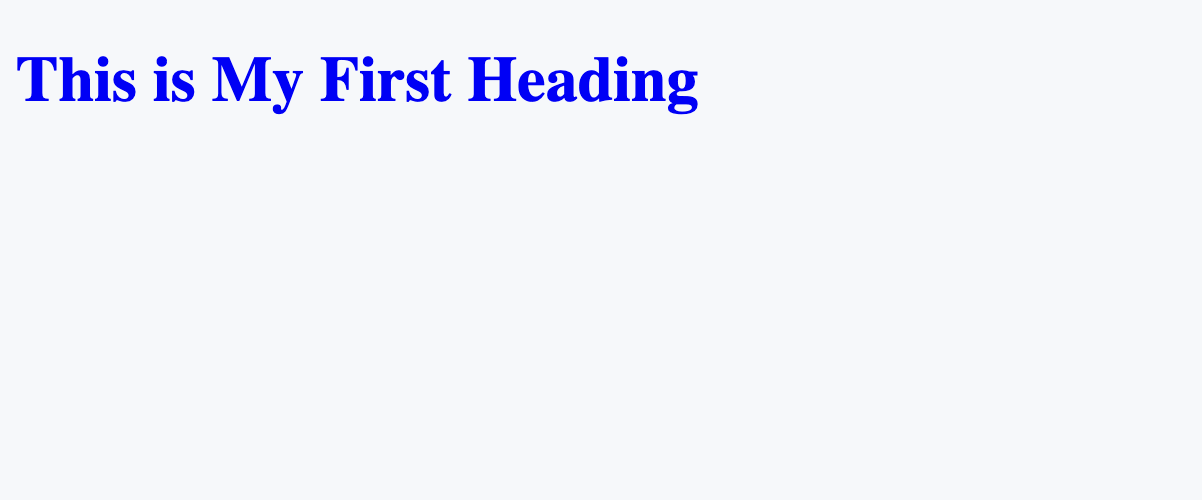
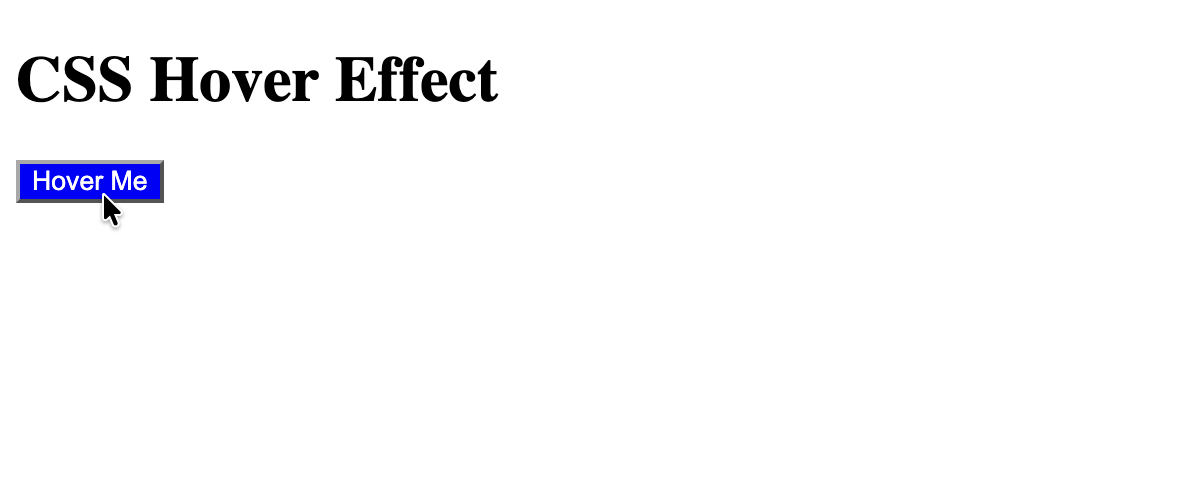
README.md file is updated and output_iamge deleted

Changed region(s): [[0.0, 0.09, 0.5849, 0.24], [0.0, 0.3, 0.1539, 0.45]]

diff --git a/README.md b/README.md
@@ -404,6 +404,33 @@ Jab mouse pointer link ke upar jayega, tab us link ka color red ho jayega.
 
 ### Example 1 — Hover
 
+---
+
+**index.html**
+
+```html
+<!DOCTYPE html>
+<html lang="en">
+<head>
+    <meta charset="UTF-8">
+    <meta name="viewport" content="width=device-width, initial-scale=1.0">
+
+    <title>Button Hover Effect</title>
+
+    <!-- CSS File -->
+    <link rel="stylesheet" href="style.css">
+</head>
+<body>
+
+    <h1>CSS Hover Effect</h1>
+
+    <button>Hover Me</button>
+
+</body>
+</html>
+```
+**style.css**
+
 ```css
 button:hover {
     background-color: blue;
@@ -411,13 +438,21 @@ button:hover {
 }
 ```
 
+**Output:**
+
+<img src="assets/output_images/image1.png">
+
+
 ### Example 2 — First Child
+
+---
 
 ```css
 li:first-child {
     color: red;
 }
 ```
+---
 
 ### Example 3 — Last Child
 
@@ -3631,5 +3666,6 @@ CSS ki kisi property ko detail mein samajhne ke liye ye resources use kar sakte 
 
 ---
 
-<p align="center"><strong>END OF CSS NOTES</strong></p>
-<p align="center">Keep Practising. Keep Building. Keep Improving.</p>
+<p align="center">
+    <a href="#top">↑ Back to Top</a>
+</p>
